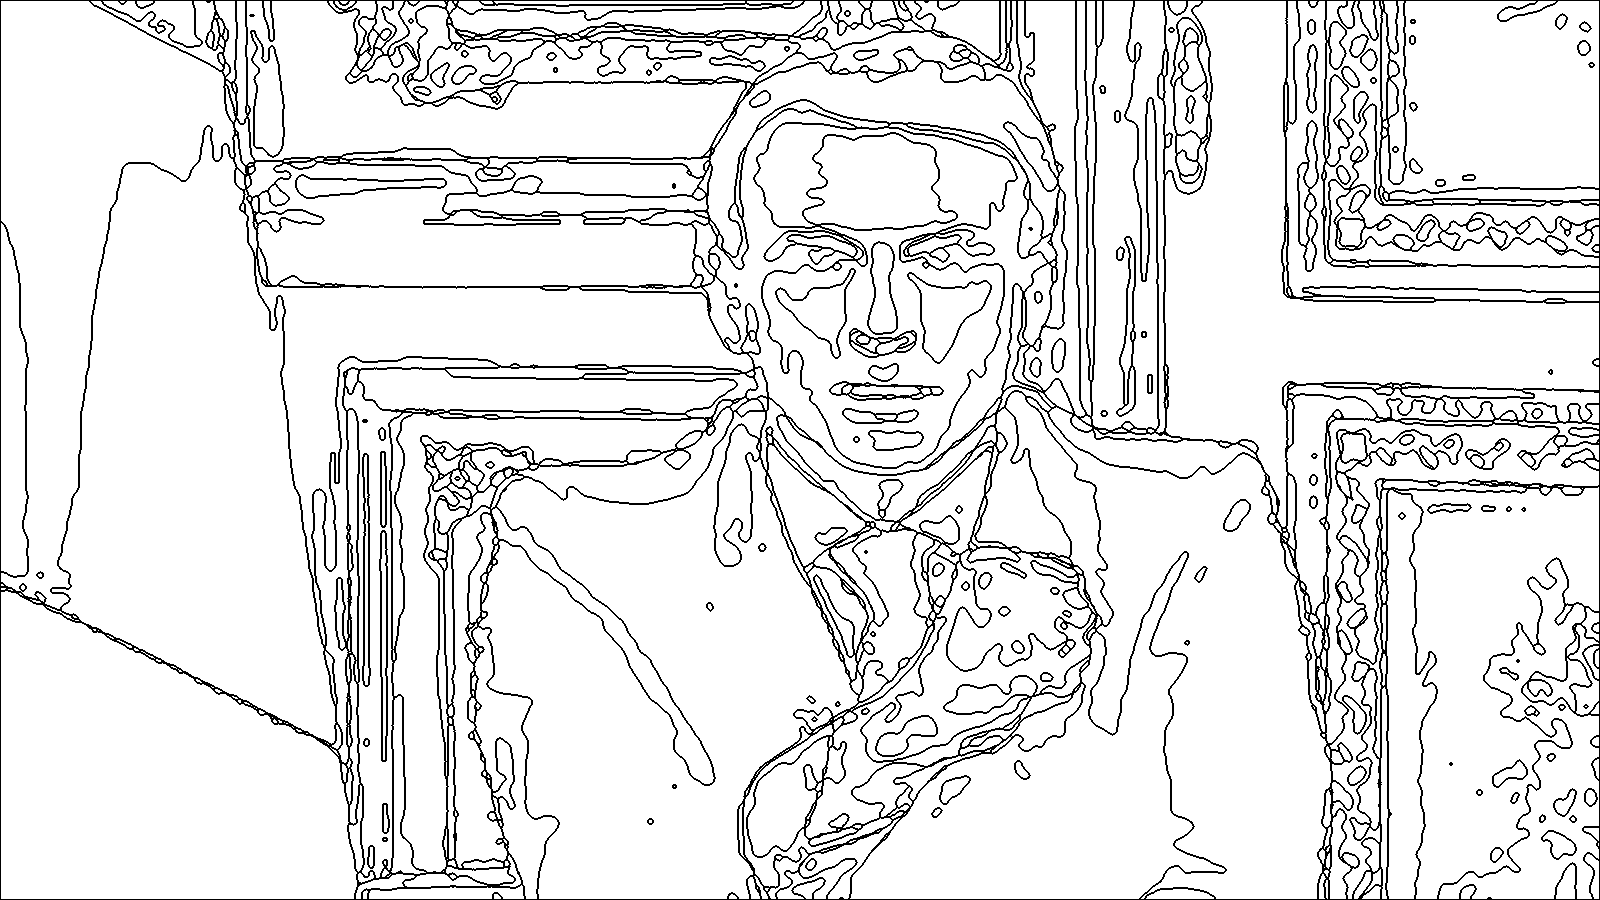
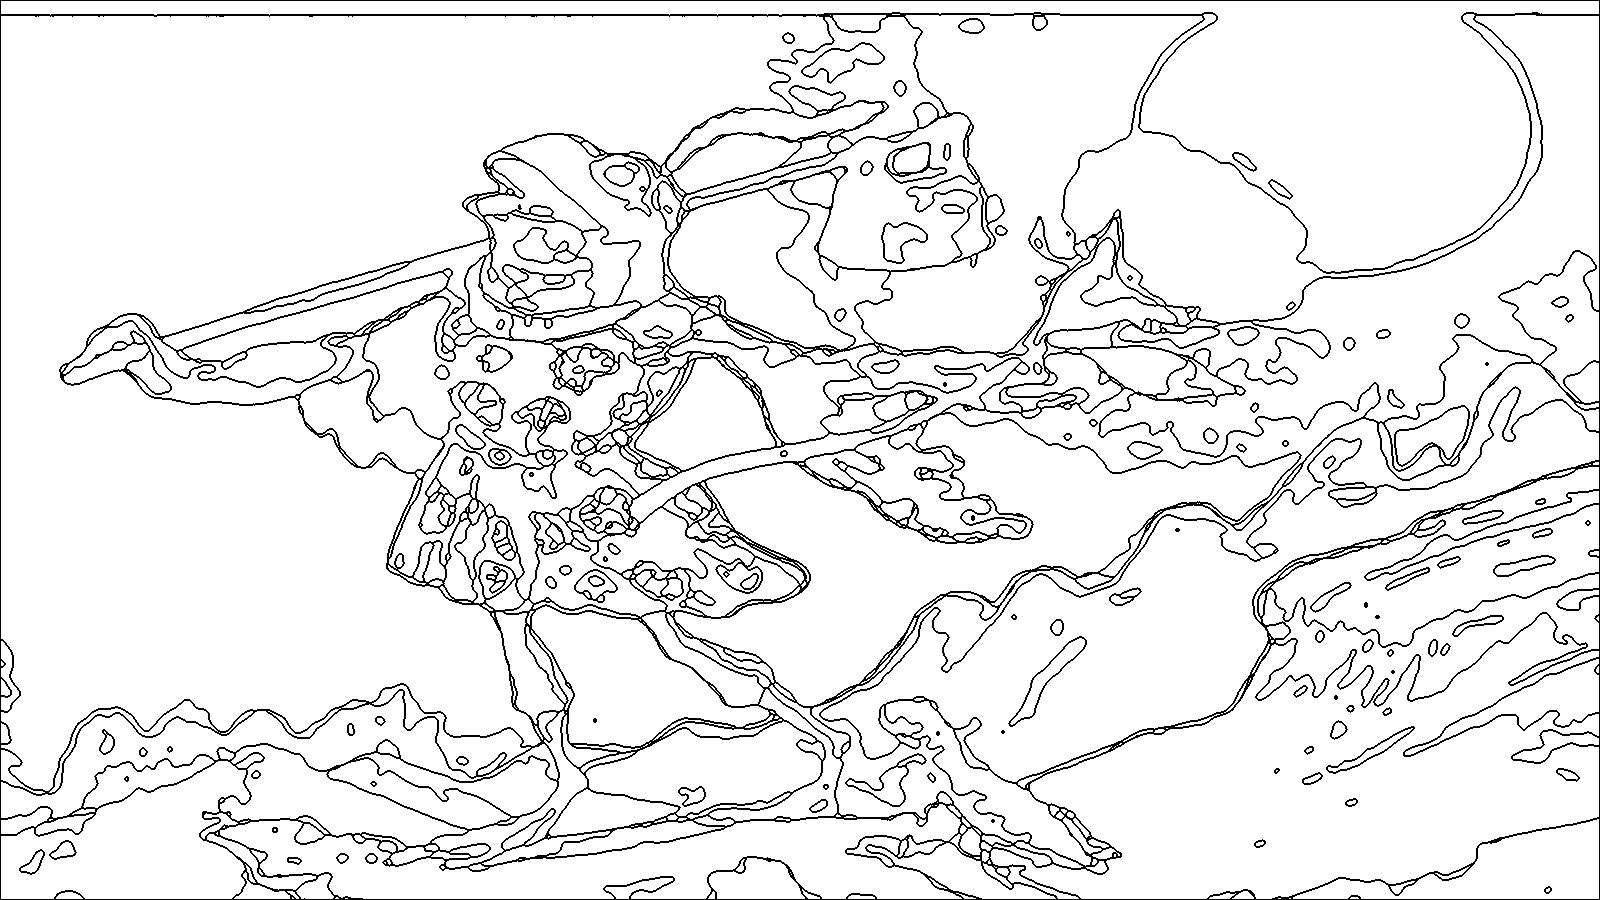
added labeling and tweaks on putting the legend in the right place

diff --git a/internal/calculation/centroidRegion.go b/internal/calculation/centroidRegion.go
@@ -1,0 +1,161 @@
+package calculation
+
+import "math"
+
+type CentroidRegion struct {
+	ColorIndex int
+	CenterX    int
+	CenterY    int
+}
+
+func FindAllRegions(indexMap [][]int, pixLimit int) []CentroidRegion {
+	rows := len(indexMap)
+	if rows == 0 {
+		return nil
+	}
+	cols := len(indexMap[0])
+	visited := make([][]bool, rows)
+	for i := range visited {
+		visited[i] = make([]bool, cols)
+	}
+	var regions []CentroidRegion
+	for y := 0; y < rows; y++ {
+		for x := 0; x < cols; x++ {
+			if visited[y][x] {
+				continue
+			}
+			colorIdx := indexMap[y][x]
+			pixels := floodFill(indexMap, visited, x, y, colorIdx, cols, rows)
+			if len(pixels) < pixLimit {
+				continue
+			}
+			cx, cy := bestLabelPosition(pixels, indexMap, colorIdx, cols, rows)
+			regions = append(regions, CentroidRegion{
+				ColorIndex: colorIdx,
+				CenterX:    cx,
+				CenterY:    cy,
+			})
+		}
+	}
+
+	return regions
+}
+
+func floodFill(indexMap [][]int, visited [][]bool, startX, startY, targetIdx, cols, rows int) [][2]int {
+	var pixels [][2]int
+	stack := [][2]int{{startX, startY}}
+	for len(stack) > 0 {
+		p := stack[len(stack)-1]
+		stack = stack[:len(stack)-1]
+		x, y := p[0], p[1]
+		if x < 0 || x >= cols || y < 0 || y >= rows {
+			continue
+		}
+		if visited[y][x] || indexMap[y][x] != targetIdx {
+			continue
+		}
+		visited[y][x] = true
+		pixels = append(pixels, [2]int{x, y})
+		stack = append(stack,
+			[2]int{x + 1, y},
+			[2]int{x - 1, y},
+			[2]int{x, y + 1},
+			[2]int{x, y - 1},
+		)
+	}
+
+	return pixels
+}
+
+func centroid(pixels [][2]int) (int, int) {
+	sx, sy := 0, 0
+	for _, p := range pixels {
+		sx += p[0]
+		sy += p[1]
+	}
+	return sx / len(pixels), sy / len(pixels)
+}
+
+// centroidInRegion is the evolution of centroid since, if the zone is large, it sometimes put
+// the label into another region
+// in the end sometimes the number was too close anyway so another method is our go too
+func centroidInRegion(pixels [][2]int, indexMap [][]int, targetIdx int) (int, int) {
+	cx, cy := centroid(pixels)
+	if indexMap[cy][cx] == targetIdx {
+		return cx, cy
+	}
+	minDist := math.MaxFloat64
+	bestX, bestY := pixels[0][0], pixels[0][1]
+
+	for _, p := range pixels {
+		dx := float64(p[0] - cx)
+		dy := float64(p[1] - cy)
+		dist := dx*dx + dy*dy
+		if dist < minDist {
+			minDist = dist
+			bestX, bestY = p[0], p[1]
+		}
+	}
+
+	return bestX, bestY
+}
+
+// bestLabelPosition returns the point inside the region
+// that is furthest from any border pixel since its hard on calculation we use a subsample
+func bestLabelPosition(pixels [][2]int, indexMap [][]int, targetIdx int, cols, rows int) (int, int) {
+	candidates := pixels
+	if len(pixels) > 300 {
+		step := len(pixels) / 300
+		candidates = make([][2]int, 0, 300)
+		for i := 0; i < len(pixels); i += step {
+			candidates = append(candidates, pixels[i])
+		}
+	}
+
+	maxDist := -1
+	bestX, bestY := pixels[0][0], pixels[0][1]
+
+	for _, p := range candidates {
+		dist := minDistToBorder(p[0], p[1], indexMap, targetIdx, cols, rows)
+		if dist > maxDist {
+			maxDist = dist
+			bestX, bestY = p[0], p[1]
+		}
+	}
+
+	return bestX, bestY
+}
+
+func minDistToBorder(x, y int, indexMap [][]int, targetIdx, cols, rows int) int {
+	type point struct{ x, y, dist int }
+
+	visited := make(map[[2]int]bool)
+	queue := []point{{x, y, 0}}
+	visited[[2]int{x, y}] = true
+
+	dirs := [4][2]int{{0, 1}, {0, -1}, {1, 0}, {-1, 0}}
+
+	for len(queue) > 0 {
+		cur := queue[0]
+		queue = queue[1:]
+
+		for _, d := range dirs {
+			nx, ny := cur.x+d[0], cur.y+d[1]
+
+			if nx < 0 || nx >= cols || ny < 0 || ny >= rows {
+				return cur.dist
+			}
+			if indexMap[ny][nx] != targetIdx {
+				return cur.dist
+			}
+
+			k := [2]int{nx, ny}
+			if !visited[k] {
+				visited[k] = true
+				queue = append(queue, point{nx, ny, cur.dist + 1})
+			}
+		}
+	}
+
+	return 0
+}

diff --git a/internal/calculation/labeling.go b/internal/calculation/labeling.go
@@ -1,0 +1,42 @@
+package calculation
+
+import (
+	"fmt"
+	"image"
+	"image/color"
+
+	"golang.org/x/image/font"
+	"golang.org/x/image/font/basicfont"
+	"golang.org/x/image/math/fixed"
+)
+
+type LabelingHelper struct{}
+
+func (l LabelingHelper) Render(contourImg image.Image, regions []CentroidRegion) image.Image {
+	bounds := contourImg.Bounds()
+	out := image.NewNRGBA(bounds)
+	for y := bounds.Min.Y; y < bounds.Max.Y; y++ {
+		for x := bounds.Min.X; x < bounds.Max.X; x++ {
+			r, g, b, a := contourImg.At(x, y).RGBA()
+			out.SetNRGBA(x, y, color.NRGBA{
+				R: uint8(r >> 8), G: uint8(g >> 8),
+				B: uint8(b >> 8), A: uint8(a >> 8),
+			})
+		}
+	}
+	for _, r := range regions {
+		l.drawLabel(out, r.CenterX, r.CenterY, r.ColorIndex)
+	}
+	return out
+}
+
+func (l LabelingHelper) drawLabel(img *image.NRGBA, x, y, index int) {
+	label := fmt.Sprintf("%d", index)
+	d := &font.Drawer{
+		Dst:  img,
+		Src:  image.NewUniform(color.NRGBA{R: 0, G: 0, B: 0, A: 255}),
+		Face: basicfont.Face7x13,
+		Dot:  fixed.P(x-3*len(label), y+5),
+	}
+	d.DrawString(label)
+}

diff --git a/internal/calculation/kmeans.go b/internal/calculation/kmeans.go
@@ -150,3 +150,39 @@ func (km *KMeans) Quantize(img image.Image) image.Image {
 	}
 	return out
 }
+
+func (km *KMeans) Palette() []CentroidPalette {
+	palette := make([]CentroidPalette, len(km.Centroids))
+	for i, c := range km.Centroids {
+		palette[i] = CentroidPalette{Index: i + 1, Color: c}
+	}
+	return palette
+}
+
+func (km *KMeans) IndexMap(img image.Image) [][]int {
+	bounds := img.Bounds()
+	indexMap := make([][]int, bounds.Dy())
+	for i := range indexMap {
+		indexMap[i] = make([]int, bounds.Dx())
+	}
+
+	for y := bounds.Min.Y; y < bounds.Max.Y; y++ {
+		for x := bounds.Min.X; x < bounds.Max.X; x++ {
+			r, g, b, a := img.At(x, y).RGBA()
+			p := color.RGBA{
+				R: uint8(r >> 8), G: uint8(g >> 8),
+				B: uint8(b >> 8), A: uint8(a >> 8),
+			}
+			minDist := math.MaxFloat64
+			nearest := 0
+			for i, c := range km.Centroids {
+				if d := km.H.DistanceSq(p, c); d < minDist {
+					minDist = d
+					nearest = i
+				}
+			}
+			indexMap[y-bounds.Min.Y][x-bounds.Min.X] = nearest + 1
+		}
+	}
+	return indexMap
+}

diff --git a/internal/calculation/centroidCenter.go b/internal/calculation/centroidCenter.go
@@ -1,0 +1,36 @@
+package calculation
+
+type CentroidCenter struct {
+	Index int
+	X     int
+	Y     int
+}
+
+// FindCenters is made to find the center of the centroid to put the label
+// but it didnt work since i changed to floodfill but keep it for ref
+func FindCenters(indexMap [][]int, numColors int) []CentroidCenter {
+	sumX := make([]int, numColors+1)
+	sumY := make([]int, numColors+1)
+	counts := make([]int, numColors+1)
+
+	for y, row := range indexMap {
+		for x, idx := range row {
+			sumX[idx] += x
+			sumY[idx] += y
+			counts[idx]++
+		}
+	}
+
+	centers := make([]CentroidCenter, 0, numColors)
+	for i := 1; i <= numColors; i++ {
+		if counts[i] == 0 {
+			continue
+		}
+		centers = append(centers, CentroidCenter{
+			Index: i,
+			X:     sumX[i] / counts[i],
+			Y:     sumY[i] / counts[i],
+		})
+	}
+	return centers
+}

diff --git a/internal/app.go b/internal/app.go
@@ -82,5 +82,17 @@ func (a *App) LogicTesting() error {
 		return fmt.Errorf("save contours: %w", err)
 	}
 	fmt.Println("the countoring is done")
+
+	indexMap := km.IndexMap(closed)
+	labelingHelper := new(calculation.LabelingHelper)
+
+	regions := calculation.FindAllRegions(indexMap, 100)
+	labeled := labelingHelper.Render(contourImg, regions)
+
+	if err := imgio.Save("output_labeled.png", labeled, imgio.PNGEncoder()); err != nil {
+		return fmt.Errorf("save contours: %w", err)
+	}
+	fmt.Println("the labeling is done")
+
 	return nil
 }

diff --git a/internal/config/config.go b/internal/config/config.go
@@ -6,7 +6,7 @@ type Config struct {
 
 func NewConfig() *Config {
 	return &Config{
-		//ImagePath: "/Users/charlesnikdel/code/Perso/Go/go_paint_by_number/test_case/SCR-20260327-kvpq.png",
-		ImagePath: "/Users/charlesnikdel/code/Perso/Go/go_paint_by_number/test_case/macrongtest.jpeg",
+		ImagePath: "/Users/charlesnikdel/code/Perso/Go/go_paint_by_number/test_case/SCR-20260327-kvpq.png",
+		//ImagePath: "/Users/charlesnikdel/code/Perso/Go/go_paint_by_number/test_case/macrongtest.jpeg",
 	}
 }

diff --git a/internal/calculation/centroidPalette.go b/internal/calculation/centroidPalette.go
@@ -1,0 +1,8 @@
+package calculation
+
+import "image/color"
+
+type CentroidPalette struct {
+	Index int
+	Color color.RGBA
+}
